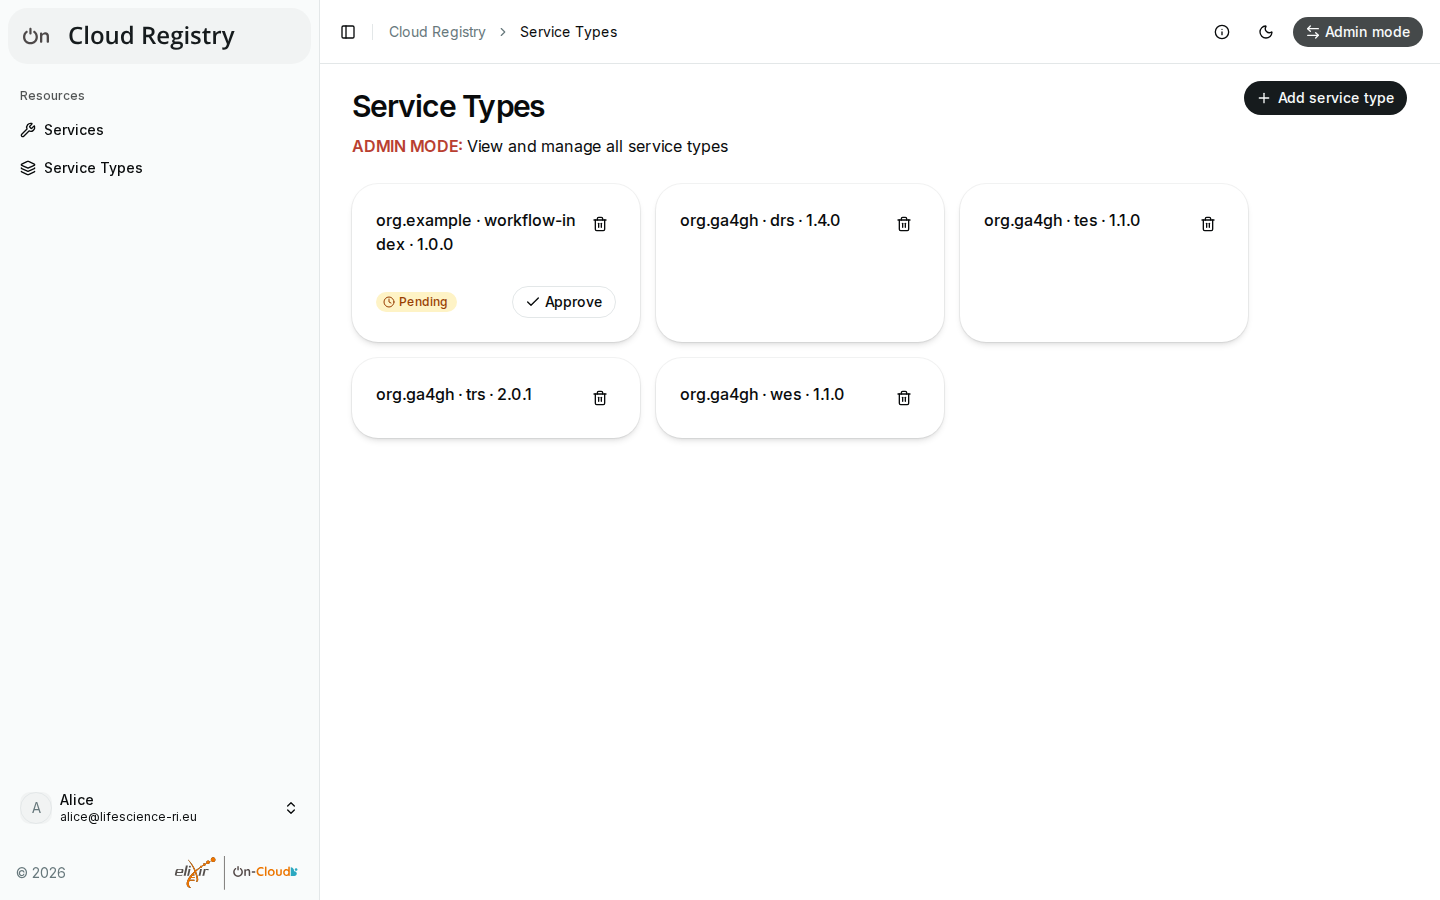
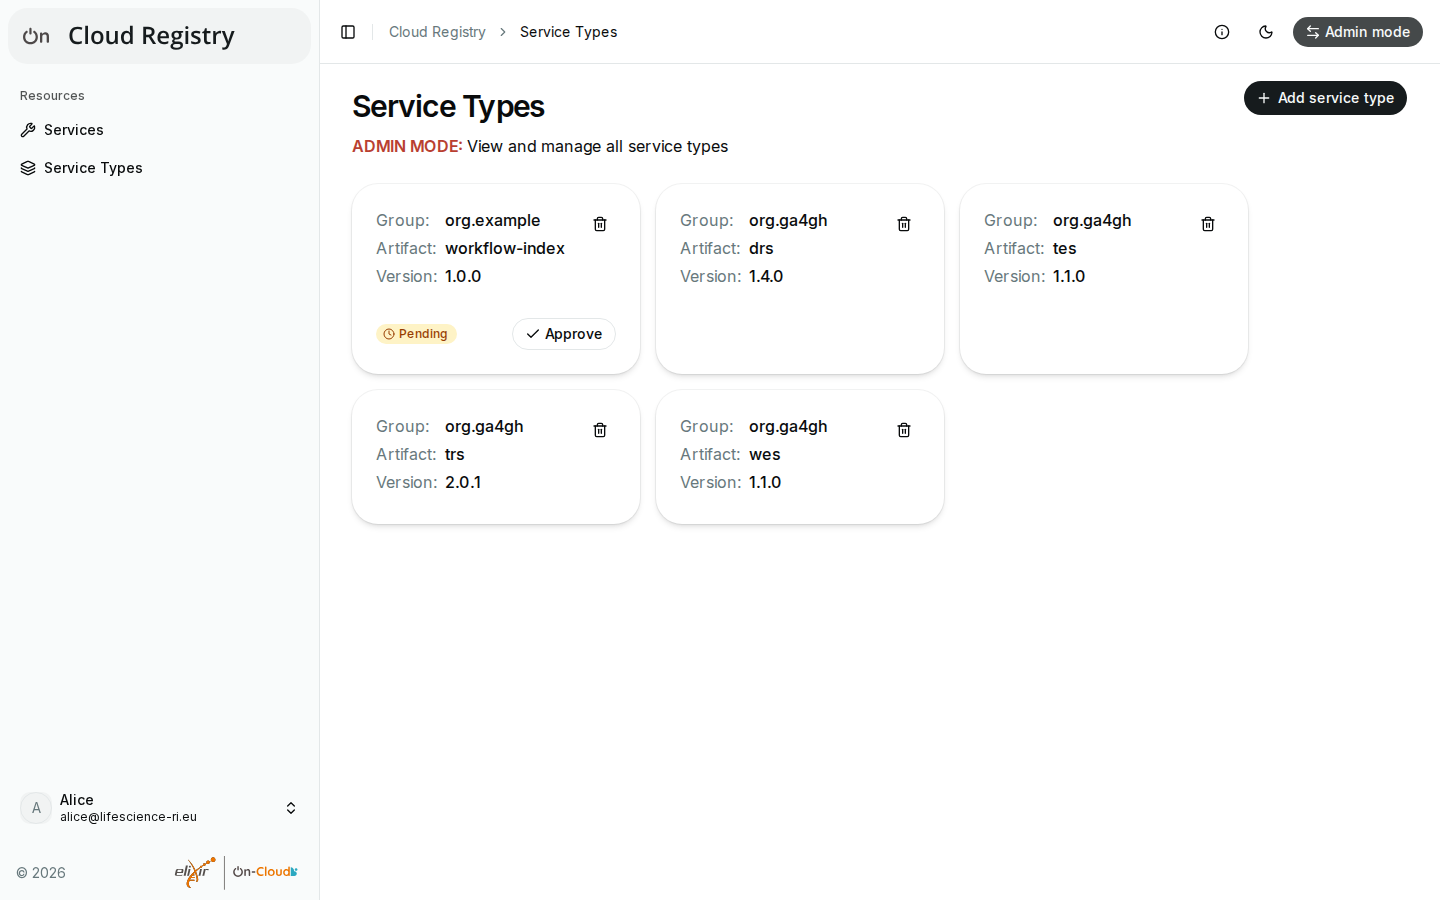
docs: describe the type tiles and info links
Update the user guide and its screenshots of the Service Types and
service info pages, and add the fixes to the release notes.

Refs #164

Claude-Session: https://claude.ai/code/session_011FSoqMUX3EU35poH13xMgG

diff --git a/docs/user-guide/browsing.md b/docs/user-guide/browsing.md
@@ -56,8 +56,10 @@ you may not see it (e.g. while it awaits approval), the page says so.
 ## Service types
 
 **Service Types** in the sidebar lists the service types of the registry:
-the APIs that services can implement, each as group, artifact and version,
-e.g. `org.ga4gh · tes · 1.1.0`. Services are registered with one of them.
+the APIs that services can implement. Each tile shows a type's group,
+artifact and version on lines of their own; lists to pick a type from (e.g.
+in the service forms and filters) show them in one line, e.g.
+`org.ga4gh · tes · 1.1.0`. Services are registered with one of them.
 
 ![The service types, with a pending one](../images/service-types.png)
 
@@ -86,7 +88,9 @@ services still have it (change or delete these services first).
 
 The "i" icon in the top bar opens the registry's service info: the
 registry's name, ID, description, organization, version, type and
-environment, as the registry reports them.
+environment, as the registry reports them. If the registry names them, the
+icons at the top right link to its documentation (**Documentation URL**)
+and its contact (**Contact URL**).
 
 Under **Registration Rules**, it shows the rules that the registry checks
 for registrations:

diff --git a/docs/releases/1.0.0-rc1.md b/docs/releases/1.0.0-rc1.md
@@ -77,6 +77,10 @@ unreleased versions, and the [user guide](../user-guide/index.md) to use it.
 - Warn of old login settings (`LS_LOGIN_URL`, `OIDC_*`) that are still set
   next to `LOGIN_PROVIDERS`, and log each provider's issuer as discovered
   (#152, #158)
+- Show the group, artifact and version of service types on lines of their
+  own in the type tiles, breaking long values after dots and hyphens; spell
+  "Documentation URL" and "Contact URL", and space the labels of the
+  registry type, on the service info page (#164)
 
 ## Documentation
 
